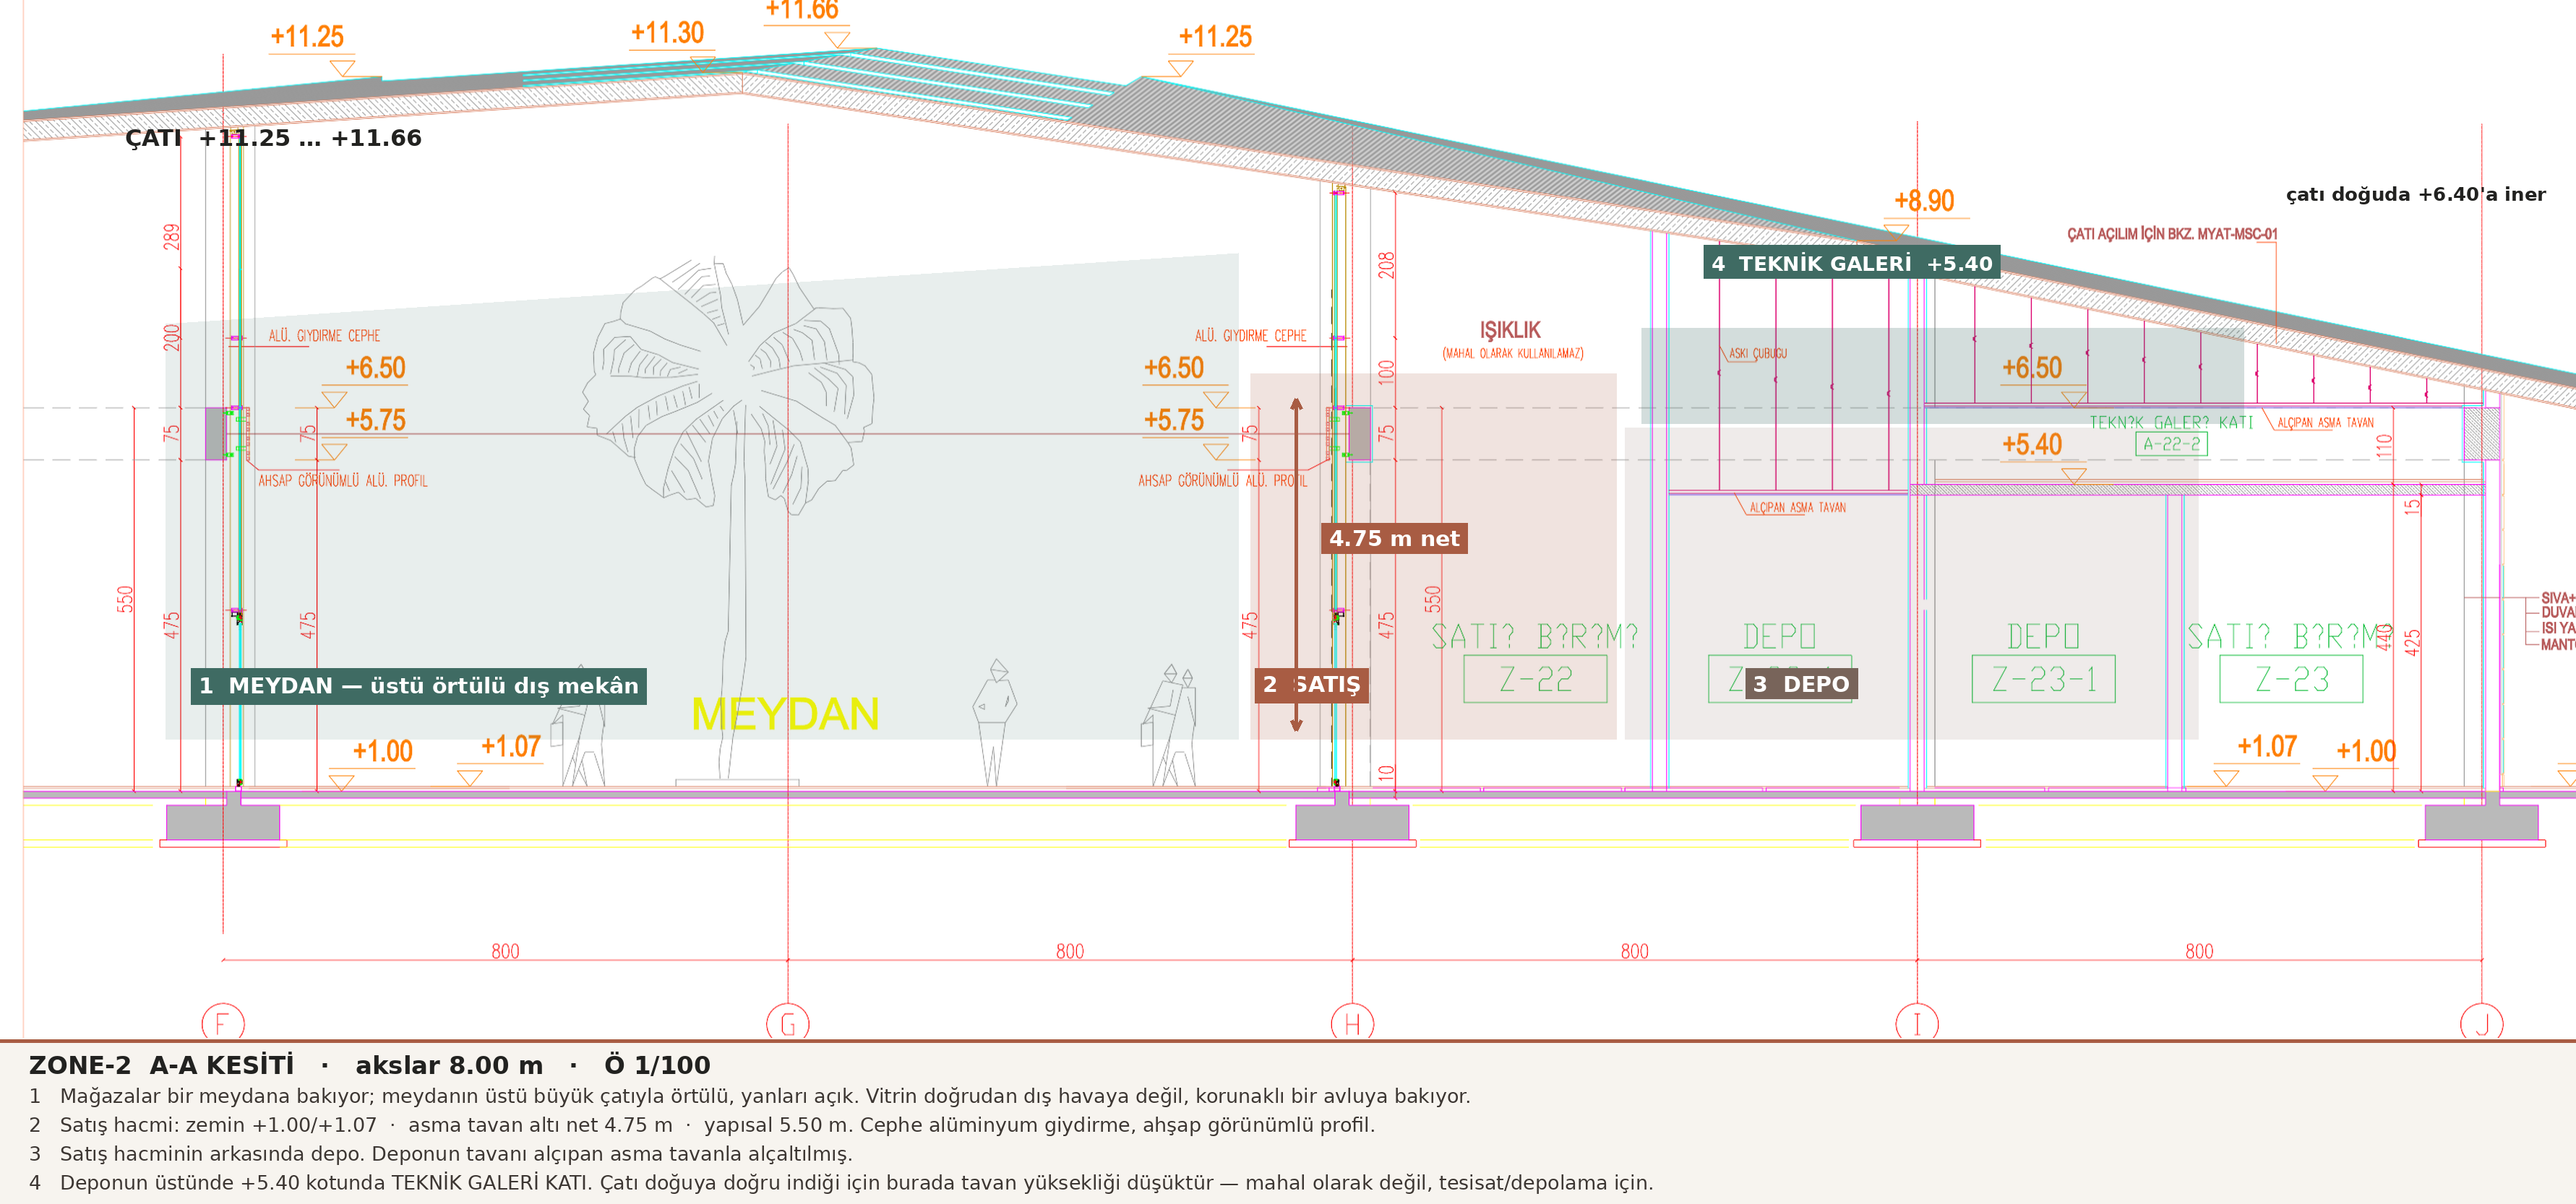
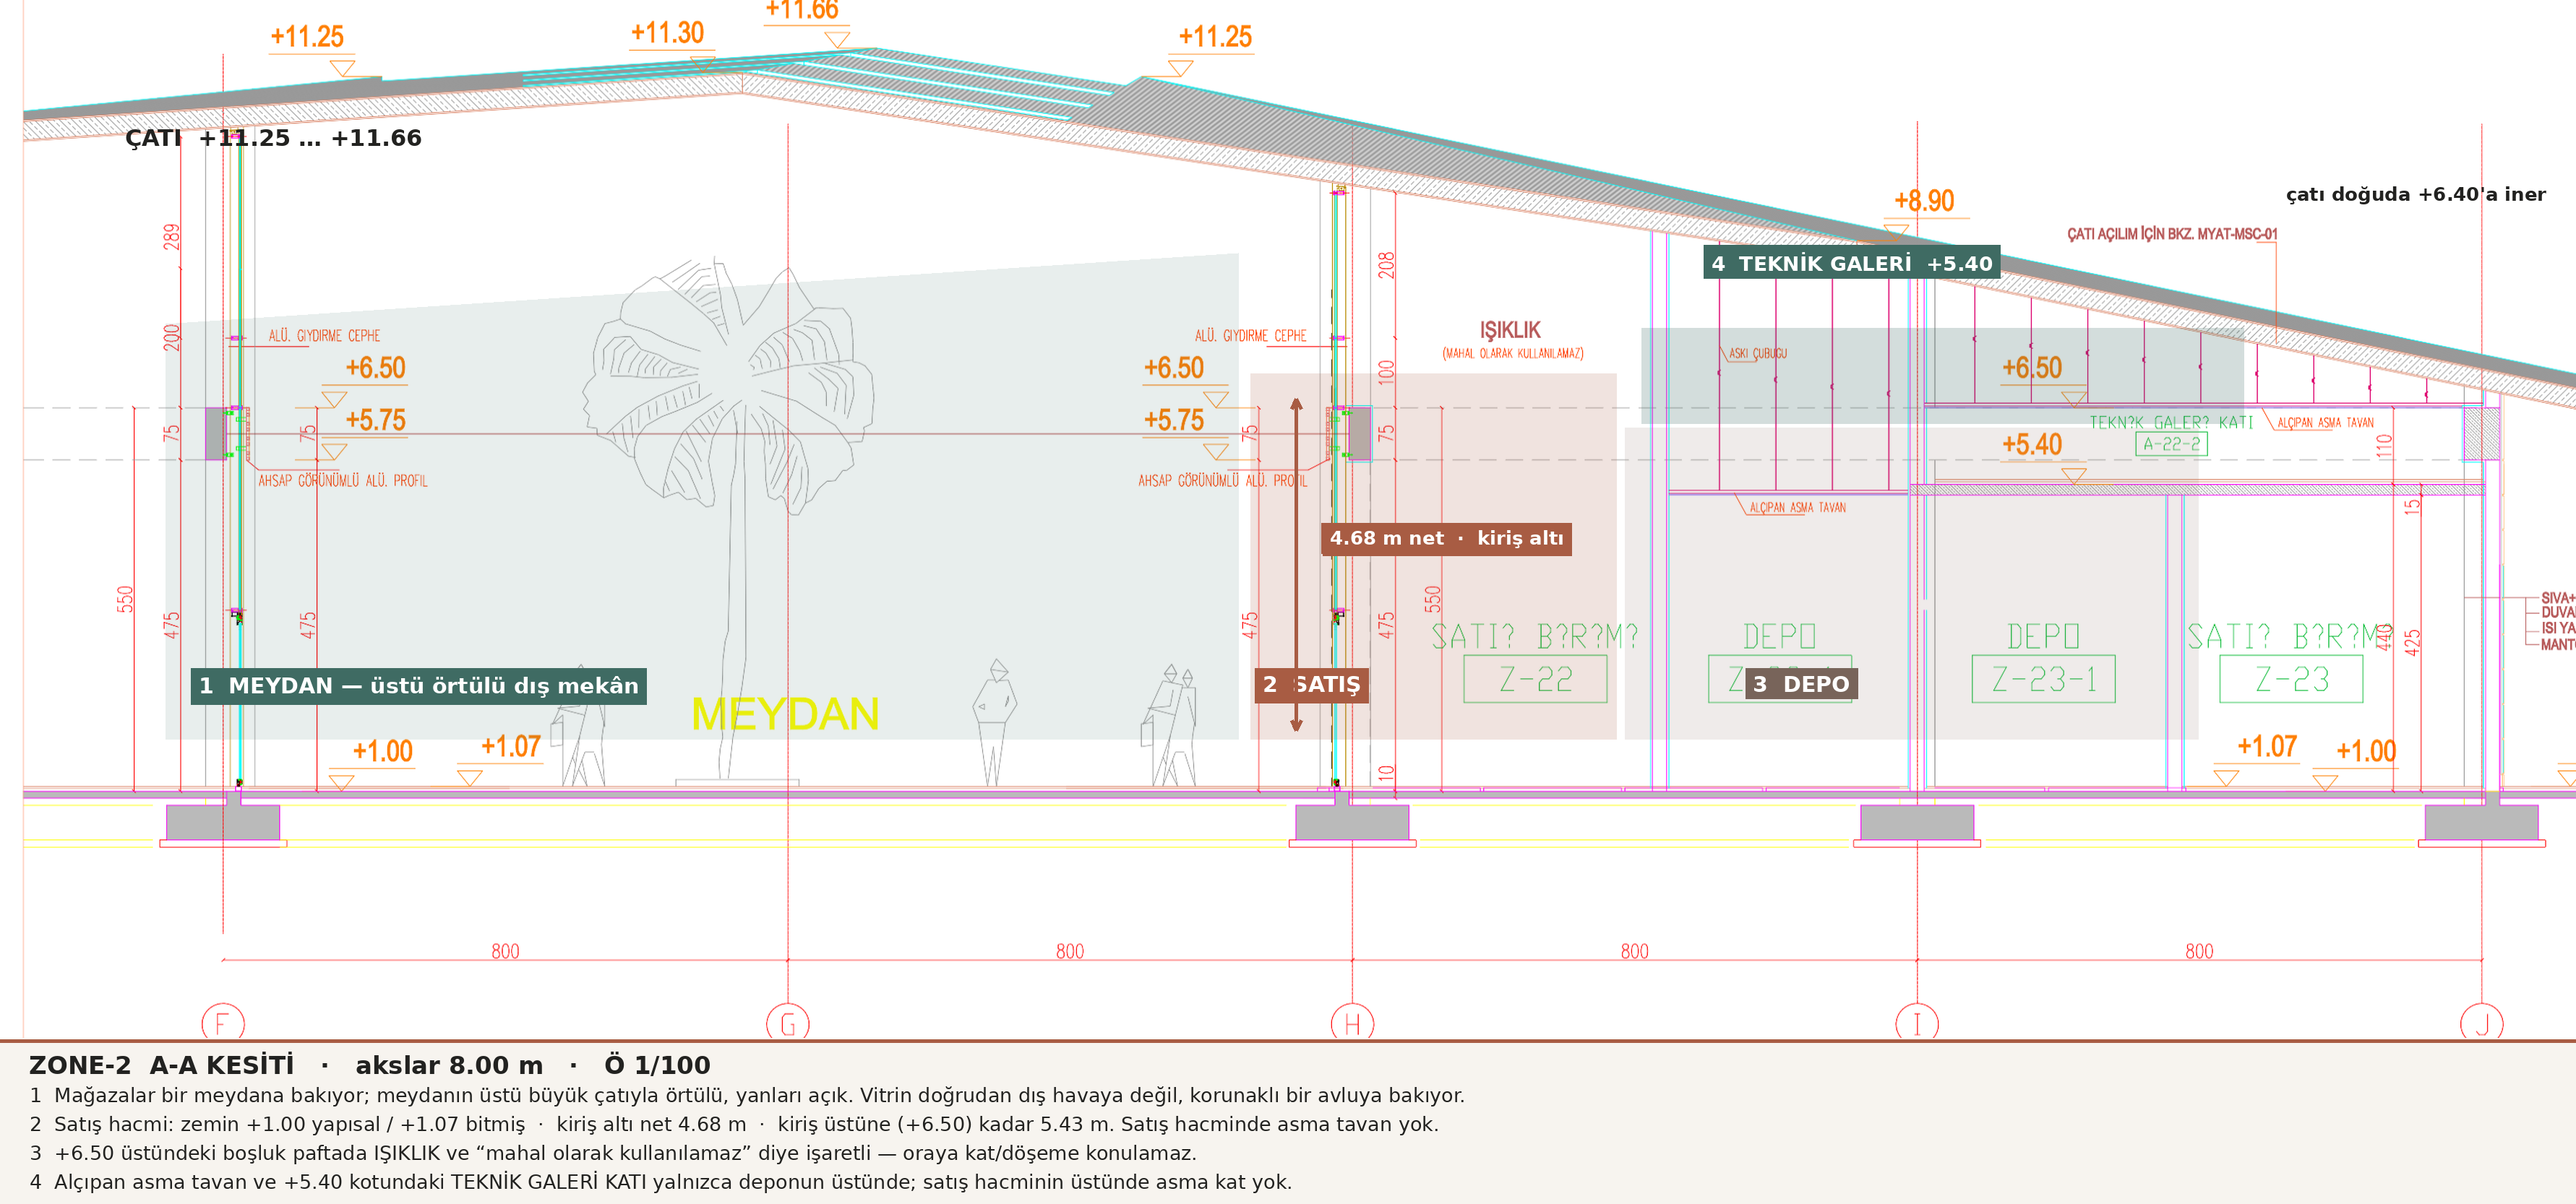
Çizim okumasında üç düzeltme + yükseklik/iki kat diyagramı
Çizimler yeniden okunduğunda önceki anotasyonlarda üç hata bulundu:

- 545/350 birimleri güneybatı değil DOĞU duvarında; vitrin cephesi orası.
  Güneybatı duvarı terasa açılan tek/çift kanat kapılardan oluşuyor.
- Kesitteki 475 ölçüsü asma tavan altı değil KİRİŞ ALTI net yükseklik
  (+1.00 → +5.75). Satış hacminde asma tavan yok; alçıpan asma tavan
  yalnızca deponun üstünde.
- Galeri katı (A-39-1, 79.44 m²) dört yanı duvarla çevrili kapalı bir
  hacim; satış hacmine bakan boşluk ya da korkuluk kenarı yok. Merdiven
  ve galeri diyagonal bölme duvarın doğusunda kalıyor.

Ayrıca D4-yukseklik.png eklendi: mevcut kabuk / kısmi asma kat / iki tam
kat karşılaştırması, kiriş altı 4.68 m ve kiriş üstü 5.43 m ölçüleriyle.

Claude-Session: https://claude.ai/code/session_012829GnztWNW7AgpXkSZZYk

Changed region(s): [[0.0, 0.9046, 0.6229, 0.9982], [0.5295, 0.4367, 0.6229, 0.4679]]

diff --git a/magaza-tasarimi-dersi/D4-yukseklik-kaynak.py b/magaza-tasarimi-dersi/D4-yukseklik-kaynak.py
@@ -1,0 +1,153 @@
+# -*- coding: utf-8 -*-
+"""D4-yukseklik.png  —  "Bu mekâna iki kat sığar mı?" diyagramı.
+Kotlar kesitten okundu: bitmiş zemin +1.07, kiriş altı +5.75, kiriş üstü +6.50,
+kiriş yüksekliği 75 cm, üstü IŞIKLIK (paftada 'mahal olarak kullanılamaz')."""
+from PIL import Image, ImageDraw, ImageFont
+
+FR = "/usr/share/fonts/truetype/dejavu/DejaVuSans.ttf"
+FB = "/usr/share/fonts/truetype/dejavu/DejaVuSans-Bold.ttf"
+def f(sz, b=False): return ImageFont.truetype(FB if b else FR, sz)
+
+PAPER=(247,244,239); INK=(34,34,32); BODY=(74,66,62); MUT=(122,106,98)
+HAIR=(214,204,195); LIGHT=(237,229,222); ACC=(168,92,67); ACCD=(126,66,48)
+SEC=(63,107,99); SECT=(221,231,228); WHITE=(255,255,255); GREY=(150,140,132)
+DARK=(60,54,50)
+
+W, H = 2600, 1880
+im = Image.new("RGB", (W, H), PAPER); d = ImageDraw.Draw(im)
+
+S = 140.0                      # 1 m = 140 px
+BASE = 1380                    # bitmiş zemin (+1.07)
+def Y(h): return int(round(BASE - h * S))
+
+def R(a, b, c, e, **kw):
+    """kot -> piksel donusumu ekseni ters cevirdigi icin koseleri normalize eder"""
+    d.rectangle([min(a, c), min(b, e), max(a, c), max(b, e)], **kw)
+
+def band(x, y, text, fill, sz=26, pad=10, tcol=WHITE):
+    ft = f(sz, True); bb = d.textbbox((0,0), text, font=ft)
+    d.rectangle([x, y, x+bb[2]-bb[0]+pad*2, y+bb[3]-bb[1]+pad*2], fill=fill)
+    d.text((x+pad-bb[0], y+pad-bb[1]), text, font=ft, fill=tcol)
+    return x+bb[2]-bb[0]+pad*2
+
+def txt(x, y, s, sz=26, b=False, c=BODY, anchor=None):
+    d.text((x, y), s, font=f(sz, b), fill=c, anchor=anchor)
+
+def vdim(x, ya, yb, label, col=ACC, sz=24, side=1, lw=3):
+    """dikey ölçü oku + etiket"""
+    d.line([(x, ya), (x, yb)], fill=col, width=lw)
+    for y in (ya, yb):
+        d.line([(x-14, y), (x+14, y)], fill=col, width=lw)
+    ft = f(sz, True); bb = d.textbbox((0,0), label, font=ft)
+    tw, th = bb[2]-bb[0], bb[3]-bb[1]
+    cy = (ya+yb)//2
+    bx = x + 12 if side > 0 else x - 12 - tw - 16
+    d.rectangle([bx, cy-th//2-8, bx+tw+16, cy+th//2+8], fill=PAPER)
+    d.text((bx+8-bb[0], cy-th//2-bb[1]), label, font=ft, fill=col)
+
+def hatch(x0, y0, x1, y1, col, step=16, lw=2):
+    """dikdortgene kirpilmis 45 derece tarama"""
+    w, h = x1-x0, y1-y0
+    tile = Image.new("RGB", (w, h), LIGHT); td = ImageDraw.Draw(tile)
+    for k in range(-(h//step) - 1, w//step + 2):
+        td.line([(k*step, 0), (k*step + h, h)], fill=col, width=lw)
+    im.paste(tile, (x0, y0))
+
+# ------------------------------------------------------------------ başlık
+d.rectangle([0, 0, W, 6], fill=ACC)
+txt(78, 74, "04 · YÜKSEKLİK", 28, True, ACC)
+txt(78, 124, "Bu mekâna iki kat sığar mı?", 62, True, INK)
+txt(78, 214, "Kesitten okunan kotlar: bitmiş zemin +1.07  ·  kiriş altı +5.75  ·  kiriş üstü +6.50  ·  kiriş yüksekliği 75 cm.",
+    28, False, BODY)
+txt(78, 256, "+6.50’nin üstü paftada IŞIKLIK ve “mahal olarak kullanılamaz” — oraya döşeme konulamaz.",
+    28, False, BODY)
+d.line([(78, 316), (W-78, 316)], fill=HAIR, width=3)
+
+CX = [500, 1300, 2100]
+HW = 300                        # yarı genişlik
+TOPY = Y(5.43)                  # +6.50
+BEAMY = Y(4.68)                 # +5.75
+
+def shell(cx, beams="both"):
+    x0, x1 = cx-HW, cx+HW
+    # ışıklık bandı (kullanılamaz)
+    d.rectangle([x0, TOPY-110, x1, TOPY], fill=LIGHT)
+    hatch(x0, TOPY-110, x1, TOPY, HAIR, 18, 2)
+    d.rectangle([x0, TOPY-110, x1, TOPY], outline=HAIR, width=2)
+    # +6.50 tavan çizgisi
+    d.line([(x0, TOPY), (x1, TOPY)], fill=DARK, width=5)
+    # kirişler
+    if beams in ("both", "left"):
+        R(x0, BEAMY, x0+86, TOPY, fill=GREY, outline=DARK, width=2)
+    if beams in ("both", "right"):
+        R(x1-86, BEAMY, x1, TOPY, fill=GREY, outline=DARK, width=2)
+    # yan duvarlar
+    d.line([(x0, TOPY), (x0, Y(0))], fill=HAIR, width=3)
+    d.line([(x1, TOPY), (x1, Y(0))], fill=HAIR, width=3)
+    # zemin
+    d.rectangle([x0-20, Y(0), x1+20, Y(0)+34], fill=DARK)
+    txt(x0-20, Y(0)+46, "+1.07 bitmiş zemin", 22, False, MUT)
+
+def head(cx, no, title, sub, col):
+    x0 = cx-HW
+    band(x0, 372, "  " + no + "   " + title + "  ", col, sz=28, pad=8)
+    txt(x0, 430, sub, 24, False, MUT)
+
+# ---------------------------------------------------------- A · MEVCUT
+cx = CX[0]; shell(cx)
+head(cx, "A", "MEVCUT KABUK", "tek hacim — hiçbir ara döşeme yok", SEC)
+txt(cx-HW+10, TOPY-98, "IŞIKLIK — mahal olarak kullanılamaz", 22, True, MUT)
+txt(cx-HW+100, BEAMY+14, "KİRİŞ  75 cm", 24, True, DARK)
+txt(cx+HW+12, TOPY-14, "+6.50", 22, True, MUT)
+txt(cx+HW+12, BEAMY-14, "+5.75", 22, True, MUT)
+vdim(cx-240, BEAMY, Y(0), "4.68 m", ACC, 26, +1)
+vdim(cx+140, TOPY, Y(0), "5.43 m", SEC, 26, +1)
+
+# ------------------------------------------------- B · KISMİ ASMA KAT
+cx = CX[1]; shell(cx)
+head(cx, "B", "KISMİ ASMA KAT", "kirişlerin arasında kalan bölümde — olur", SEC)
+x0, x1 = cx-HW, cx+HW
+dx0, dx1 = cx-30, x1-96
+R(x0+2, Y(5.43), dx0, Y(0), fill=SECT)
+R(dx0, Y(2.83), dx1, Y(2.60), fill=DARK)
+R(dx1-16, Y(2.60), dx1, Y(0), fill=GREY)
+txt(x0+14, Y(1.70), "vitrin boyu", 22, True, SEC)
+txt(x0+14, Y(1.70)+30, "boş kalır", 22, True, SEC)
+txt(x0+16, Y(2.60)+10, "döşeme 23 cm", 22, False, MUT)
+vdim(dx0+170, Y(2.60), Y(0), "2.60 m", ACC, 26, +1)
+vdim(dx0+170, TOPY, Y(2.83), "2.60 m", ACC, 26, +1)
+
+# ---------------------------------------------------- C · İKİ TAM KAT
+cx = CX[2]; shell(cx)
+head(cx, "C", "İKİ TAM KAT", "kiriş hattında — üst kat 2.08 m, asgari 2.20 m’nin altında", ACCD)
+x0, x1 = cx-HW, cx+HW
+R(x0, Y(2.60), x1, Y(2.40), fill=DARK)
+d.line([(x0+30, Y(0)-30), (x1-30, TOPY+30)], fill=ACCD, width=9)
+d.line([(x0+30, TOPY+30), (x1-30, Y(0)-30)], fill=ACCD, width=9)
+vdim(cx-140, Y(2.40), Y(0), "2.40 m", ACC, 26, -1)
+vdim(cx+140, BEAMY, Y(2.60), "2.08 m", ACCD, 26, +1)
+
+# --------------------------------------------------------- alt açıklama
+ty = 1512
+d.line([(78, ty-40), (W-78, ty-40)], fill=HAIR, width=3)
+rows = [
+ ("A", "Kiriş altı net 4.68 m, kirişlerin arasında +6.50’ye kadar 5.43 m. Satış hacminde asma tavan yok; hacim doğrudan kirişli tavana açılıyor."),
+ ("B", "Kirişler arası açıklıkta 2.60 + 2.60 çıkar. Asma kat toplam alanın üçte birini geçmemeli, cepheden geri çekilmeli, vitrin boyu bölünmemeli."),
+ ("C", "Tam kat, kirişin altından geçmek zorunda: 2.40 + döşeme + 2.08. Üst kat asgari yüksekliğin altında kalıyor — ticari mekân olarak çözülemez."),
+]
+for i, (k, s) in enumerate(rows):
+    y = ty + i*46
+    txt(78, y, k, 26, True, ACC); txt(120, y, s, 26, False, BODY)
+
+# --------------------------------------------------------- kapanış bandı
+by = 1690
+d.rectangle([78, by, W-78, by+140], fill=SECT)
+d.rectangle([78, by, 92, by+140], fill=SEC)
+txt(124, by+24, "Kirişi aşağı almak yükseklik kazandırmaz — olan yüksekliği de alır.", 30, True, INK)
+txt(124, by+76, "Tavanı belirleyen şey kirişin kendisi değil, üstündeki +6.50 kotu ve “kullanılamaz” işaretli ışıklıktır. Kiriş 75 cm’lik taşıyıcı bir",
+    26, False, BODY)
+txt(124, by+110, "elemandır ve kiracı tarafından yeri değiştirilemez. İki kat isteniyorsa kiriş indirilmez; brifte kabuk yükseltilir.",
+    26, False, BODY)
+
+im.save("D4-yukseklik.png")
+print("ok", im.size)

diff --git a/magaza-tasarimi-dersi/cizim-duzeltme-kaynak.py b/magaza-tasarimi-dersi/cizim-duzeltme-kaynak.py
@@ -1,0 +1,88 @@
+# -*- coding: utf-8 -*-
+"""
+D1 / D2 / D3 anotasyon duzeltmeleri.
+Cizimler yeniden okundu; asagidaki uc tespit duzeltildi:
+  1) 545/350 birimleri GUNEYBATI degil DOGU duvarinda (vitrin cephesi orasi).
+  2) 475 olcusu asma tavan alti degil KIRIS ALTI net yuksekliktir (+1.00 -> +5.75).
+  3) Galeri kati (A-39-1) dort yani duvarli kapali bir hacim; satis hacmine
+     bakan bir bosluk / korkuluk kenari yok.
+Betik PNG'leri yerinde gunceller. Iki kez calistirmak gerekmez.
+"""
+from PIL import Image, ImageDraw, ImageFont
+
+FR = "/usr/share/fonts/truetype/dejavu/DejaVuSans.ttf"
+FB = "/usr/share/fonts/truetype/dejavu/DejaVuSans-Bold.ttf"
+def f(sz, b=False): return ImageFont.truetype(FB if b else FR, sz)
+
+ACC = (168, 92, 67); SEC = (63, 107, 99); INK = (34, 34, 32)
+MUT = (122, 106, 98); BRN = (120, 100, 90)
+PAPER = (247, 244, 239); WHITE = (255, 255, 255)
+
+def band(d, x, y, text, fill, sz=26, pad=10, tcol=WHITE):
+    ft = f(sz, True)
+    bb = d.textbbox((0, 0), text, font=ft)
+    d.rectangle([x, y, x + bb[2] - bb[0] + pad * 2, y + bb[3] - bb[1] + pad * 2], fill=fill)
+    d.text((x + pad - bb[0], y + pad - bb[1]), text, font=ft, fill=tcol)
+
+def band2(d, x, y, lines, fill, sz=26, pad=10, lead=34, tcol=WHITE):
+    ft = f(sz, True)
+    w = max(d.textbbox((0, 0), s, font=ft)[2] for s in lines)
+    h = lead * (len(lines) - 1) + d.textbbox((0, 0), "Ag", font=ft)[3]
+    d.rectangle([x, y, x + w + pad * 2, y + h + pad * 2], fill=fill)
+    for i, s in enumerate(lines):
+        d.text((x + pad, y + pad + i * lead - 4), s, font=ft, fill=tcol)
+
+def caption(d, x, y0, lines, sz, lead, col=(34, 34, 32)):
+    ft = f(sz)
+    for i, s in enumerate(lines):
+        d.text((x, y0 + i * lead), s, font=ft, fill=col)
+
+# ----------------------------------------------------------------- D1 kesit
+im = Image.open("D1-kesit.png").convert("RGB"); d = ImageDraw.Draw(im)
+band(d, 1830, 724, "4.68 m net  ·  kiriş altı", ACC, sz=26)
+d.rectangle([20, 1498, 3550, 1666], fill=PAPER)
+caption(d, 41, 1500, [
+ "1  Mağazalar bir meydana bakıyor; meydanın üstü büyük çatıyla örtülü, yanları açık. Vitrin doğrudan dış havaya değil, korunaklı bir avluya bakıyor.",
+ "2  Satış hacmi: zemin +1.00 yapısal / +1.07 bitmiş  ·  kiriş altı net 4.68 m  ·  kiriş üstüne (+6.50) kadar 5.43 m. Satış hacminde asma tavan yok.",
+ "3  +6.50 üstündeki boşluk paftada IŞIKLIK ve “mahal olarak kullanılamaz” diye işaretli — oraya kat/döşeme konulamaz.",
+ "4  Alçıpan asma tavan ve +5.40 kotundaki TEKNİK GALERİ KATI yalnızca deponun üstünde; satış hacminin üstünde asma kat yok.",
+], sz=27, lead=40)
+im.save("D1-kesit.png")
+
+# ------------------------------------------------------------------ D2 plan
+im = Image.open("D2-plan.png").convert("RGB"); d = ImageDraw.Draw(im)
+d.rectangle([283, 2941, 1160, 2996], fill=WHITE)
+band(d, 285, 2945, "GÜNEYBATI DUVARI  ·  terasa açılan kapılar", ACC, sz=26)
+caption(d, 287, 3002, ["burada vitrin yok — 545/350 cam birimleri doğu duvarında"], sz=24, lead=34, col=MUT)
+d.rectangle([1326, 395, 1900, 450], fill=WHITE)
+band2(d, 1330, 399, [
+ "DOĞU DUVARI = VİTRİN CEPHESİ",
+ "545/350  →  5.45 m en × 3.50 m yükseklik",
+ "+1.07’den +4.57’ye  ·  ortada çift kanat kapı",
+ "iki birim yan yana  ·  dışarısı ağaçlı meydan",
+], INK, sz=26, lead=38)
+band(d, 817, 2071, "MERDİVEN + GALERİ KATI · bölme duvarın doğusunda", SEC, sz=26)
+d.rectangle([20, 3330, 2190, 3517], fill=PAPER)
+caption(d, 40, 3333, [
+ "Kabuk iki parçalı: kuzeyde dik açılı bir blok, güneydoğuda iki diyagonal duvar arasında genişleyen kama biçimli bir alan.",
+ "Vitrin doğu duvarında: 5.45 × 3.50 m’lik iki cam birim (545/350), her birinin ortasında çift kanat kapı; dışarısı ağaçlı meydan.",
+ "Güneybatı duvarı terasa açılıyor — tek ve çift kanat kapılar var, vitrin yok. Taşıyıcı sistem 8.00 × 8.00 m kolon aksı.",
+ "Merdiven ve çıktığı 79.44 m² GALERİ KATI (A-39-1) diyagonal bölme duvarın doğusunda; satış hacminin üstünde asma kat yok.",
+ "Çizim doğu kenarında pafta sınırıyla kesilmiş — birimin tamamı bu paftada görünmüyor.",
+], sz=26, lead=38)
+im.save("D2-plan.png")
+
+# -------------------------------------------------------------- D3 asma kat
+im = Image.open("D3-asmakat.png").convert("RGB"); d = ImageDraw.Draw(im)
+band(d, 152, 950, "DÖŞEME YOK — altta tek hacim hâlinde satış alanı (+1.07)", ACC, sz=26)
+band(d, 779, 2194, "merdiven kapalı galeriye varıyor", SEC, sz=26)
+band2(d, 1254, 1520, ["KAPALI GALERİ KATI", "A-39-1 · 79.44 m² · dört yanı duvarlı"], SEC, sz=26, lead=38)
+d.rectangle([20, 3272, 2390, 3430], fill=PAPER)
+caption(d, 40, 3276, [
+ "Asma kat bütün mekânı örtmüyor: yalnızca doğudaki bölümde 79.44 m²’lik bir döşeme var (A-39-1) ve pafta sınırının ötesine devam ediyor.",
+ "Geri kalan alanlarda döşeme yok — planda +1.07 / +1.00 kotu görünüyor; yani oralarda zemin kat tek hacim hâlinde yukarı açılıyor.",
+ "Galeri katı dört yanı duvarla çevrili kapalı bir hacim: satış hacmine bakan bir boşluk ya da korkuluk kenarı yok. Gri lekeler sunum gölgesidir.",
+ "Kesitteki bilgiye göre bu kat +5.40 kotunda ve teknik galeri olarak tanımlı — tavan yüksekliği düşük.",
+], sz=26, lead=38)
+im.save("D3-asmakat.png")
+print("ok")
